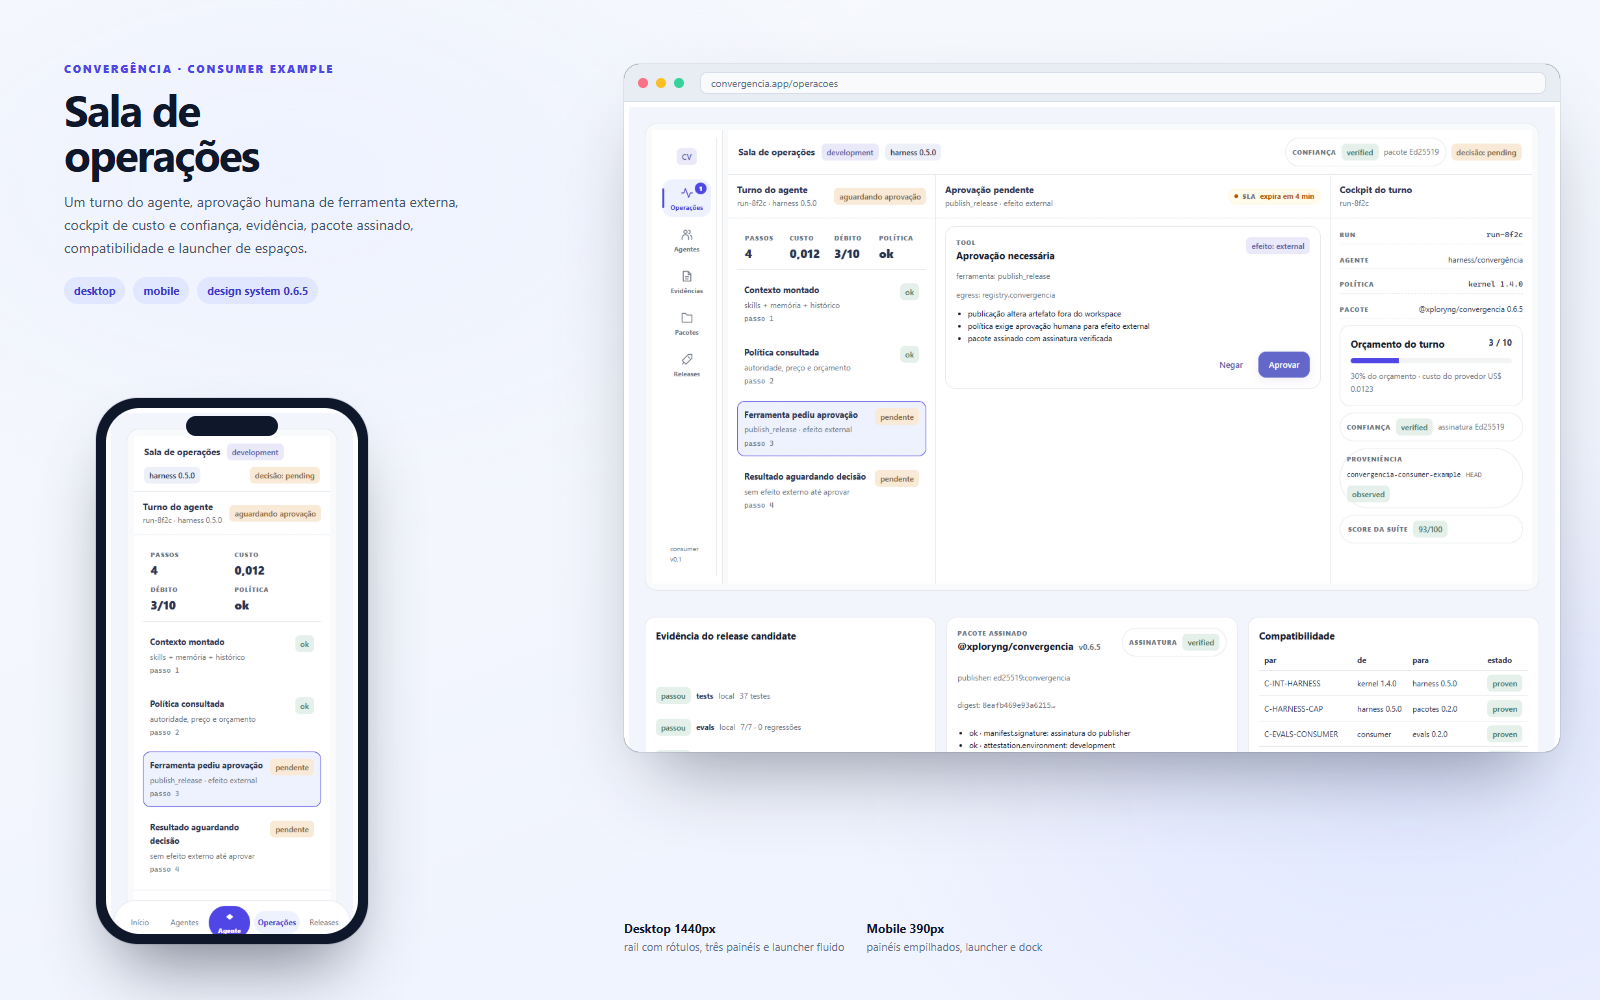
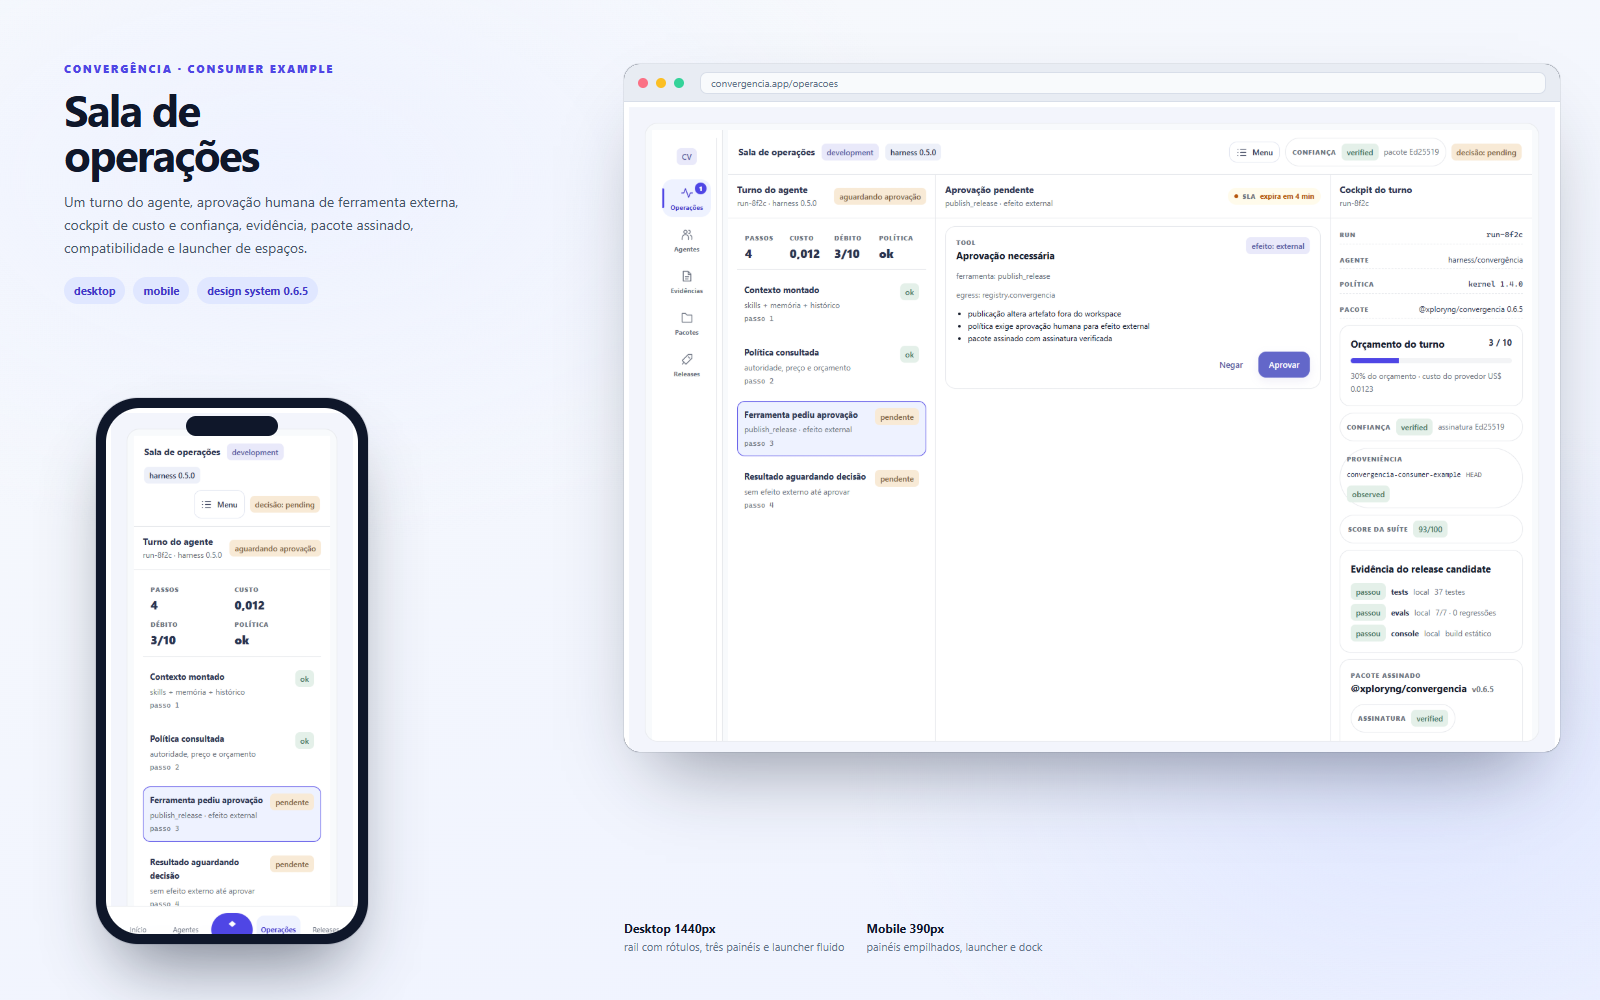
feat(sample): add FavoritosAI library sample and portfolio

diff --git a/examples/favoritos/src/App.tsx b/examples/favoritos/src/App.tsx
@@ -1,0 +1,160 @@
+import { useState } from 'react';
+import {
+  Avatar,
+  Badge,
+  Button,
+  Card,
+  Divider,
+  Icon,
+  MetaRow,
+  ScoreBadge,
+  TrustBadge,
+} from '../../../src/index';
+
+type Item = {
+  id: string;
+  title: string;
+  description: string;
+  tag: string;
+  kind: string;
+  score: number;
+  source: string;
+  savedAt: string;
+};
+
+const items: Item[] = [
+  { id: 'f1', title: 'Designing Data-Intensive Applications', description: 'Notas de leitura sobre consistência, replicação e sistemas distribuídos.', tag: 'livro', kind: 'leitura', score: 96, source: 'favoritos.ai/livros', savedAt: 'há 2 dias' },
+  { id: 'f2', title: 'Convergência Design System', description: 'Tokens, componentes e blocos usados nos produtos do ecossistema.', tag: 'sistema', kind: 'referência', score: 93, source: 'convergencia.design', savedAt: 'há 5 dias' },
+  { id: 'f3', title: 'Padrões de agentes autônomos', description: 'Comparativo de loops, ferramentas, memória e avaliação.', tag: 'pesquisa', kind: 'artigo', score: 88, source: 'arxiv.org', savedAt: 'há 1 semana' },
+  { id: 'f4', title: 'Receitas de cozinha rápida', description: 'Coleção pessoal de pratos de 20 minutos para a semana.', tag: 'pessoal', kind: 'coleção', score: 74, source: 'caderno', savedAt: 'há 2 semanas' },
+  { id: 'f5', title: 'SuperJarvis — arquitetura', description: 'Anotações sobre superfícies, agente central e continuidade.', tag: 'produto', kind: 'referência', score: 91, source: 'superjarvis.app', savedAt: 'há 3 semanas' },
+  { id: 'f6', title: 'Rotina de estudo de idiomas', description: 'Plano de 30 minutos por dia com repetição espaçada.', tag: 'pessoal', kind: 'plano', score: 81, source: 'caderno', savedAt: 'há 1 mês' },
+];
+
+const filters = ['todos', 'favoritos', 'lidos'];
+
+export function App() {
+  const [query, setQuery] = useState('');
+  const [filter, setFilter] = useState('todos');
+  const [selectedId, setSelectedId] = useState('f1');
+
+  const filtered = items.filter((item) => {
+    const term = query.trim().toLowerCase();
+    const matches = `${item.title} ${item.description} ${item.tag}`.toLowerCase().includes(term);
+    return matches && (filter === 'todos' || filter === 'favoritos' || filter === 'lidos');
+  });
+  const selected = items.find((item) => item.id === selectedId) ?? items[0];
+
+  return (
+    <div className="fav-shell">
+      <header className="fav-header">
+        <div className="fav-brand">
+          <span className="fav-mark"><Icon name="book" size={20} /></span>
+          <div>
+            <strong>FavoritosAI</strong>
+            <small>biblioteca pessoal</small>
+          </div>
+        </div>
+        <label className="fav-search">
+          <Icon name="search" size={16} />
+          <input value={query} onChange={(event) => setQuery(event.target.value)} placeholder="Buscar na biblioteca…" />
+        </label>
+        <div className="fav-actions">
+          <Button variant="secondary" size="sm" icon="plus">Nova pasta</Button>
+          <Avatar name="Ana" size="sm" />
+        </div>
+      </header>
+
+      <div className="fav-body">
+        <aside className="fav-side">
+          <Card>
+            <span className="fav-kicker">visão</span>
+            <div className="fav-filters">
+              {filters.map((item) => (
+                <button
+                  key={item}
+                  type="button"
+                  className={filter === item ? 'is-active' : ''}
+                  onClick={() => setFilter(item)}
+                >
+                  {item}
+                  <span>{item === 'todos' ? items.length : item === 'favoritos' ? 3 : 2}</span>
+                </button>
+              ))}
+            </div>
+            <Divider />
+            <span className="fav-kicker">tags</span>
+            <div className="fav-tags">
+              {['livro', 'sistema', 'pesquisa', 'pessoal', 'produto'].map((tag) => (
+                <Badge key={tag} tone="neutral">{tag}</Badge>
+              ))}
+            </div>
+            <Divider />
+            <div className="fav-stat">
+              <span>itens salvos</span>
+              <strong>128</strong>
+            </div>
+            <div className="fav-stat">
+              <span>lidos este mês</span>
+              <strong>14</strong>
+            </div>
+          </Card>
+        </aside>
+
+        <main className="fav-main">
+          <div className="fav-title">
+            <div>
+              <span className="fav-kicker">arquivo pessoal</span>
+              <h1>Biblioteca</h1>
+              <p>O que você salvou, leu e quer lembrar depois.</p>
+            </div>
+            <Badge tone="accent">128 itens</Badge>
+          </div>
+
+          <div className="fav-grid">
+            {filtered.map((item) => (
+              <Card key={item.id}>
+                <button type="button" className="fav-item" onClick={() => setSelectedId(item.id)}>
+                  <span className={`fav-cover fav-cover--${item.tag}`} aria-hidden="true" />
+                  <span className="fav-item-copy">
+                    <span className="fav-item-top">
+                      <Badge tone="neutral">{item.tag}</Badge>
+                      <span>{item.savedAt}</span>
+                    </span>
+                    <strong>{item.title}</strong>
+                    <small>{item.description}</small>
+                    <span className="fav-item-foot">
+                      <span>{item.kind}</span>
+                      <span>{item.source}</span>
+                    </span>
+                  </span>
+                </button>
+              </Card>
+            ))}
+          </div>
+        </main>
+
+        <aside className="fav-detail">
+          <Card>
+            <span className="fav-kicker">detalhe</span>
+            <h2>{selected.title}</h2>
+            <p>{selected.description}</p>
+            <Divider />
+            <MetaRow label="Tipo" value={selected.kind} />
+            <MetaRow label="Fonte" value={selected.source} />
+            <MetaRow label="Salvo" value={selected.savedAt} />
+            <Divider />
+            <div className="fav-detail-actions">
+              <ScoreBadge score={selected.score} label="relevância" />
+              <TrustBadge status="verified" detail="fonte verificada" />
+            </div>
+            <div className="fav-detail-buttons">
+              <Button size="sm">Abrir item</Button>
+              <Button size="sm" variant="ghost" icon="book">Marcar lido</Button>
+            </div>
+          </Card>
+        </aside>
+      </div>
+    </div>
+  );
+}

diff --git a/examples/favoritos/src/favoritos.css b/examples/favoritos/src/favoritos.css
@@ -1,0 +1,49 @@
+* { box-sizing: border-box; }
+body { margin: 0; background: var(--cv-color-background, #f8fafc); color: var(--cv-color-text, #0f172a); font-family: "Segoe UI", ui-sans-serif, system-ui, sans-serif; }
+.fav-shell { min-height: 100vh; display: grid; grid-template-rows: auto 1fr; }
+.fav-header { display: flex; align-items: center; gap: 18px; padding: 14px 22px; background: var(--cv-color-surface, #fff); border-bottom: 1px solid var(--cv-color-border, #e5e7eb); }
+.fav-brand { display: flex; align-items: center; gap: 10px; min-width: 190px; }
+.fav-brand strong { display: block; font-size: 15px; letter-spacing: -0.02em; }
+.fav-brand small { display: block; font-size: 10px; color: var(--cv-color-text-muted, #64748b); }
+.fav-mark { width: 36px; height: 36px; border-radius: 12px; display: grid; place-items: center; background: var(--cv-color-accent-soft, #eef2ff); color: var(--cv-color-accent-text, #4338ca); }
+.fav-search { display: flex; align-items: center; gap: 8px; flex: 1; max-width: 520px; min-height: 40px; padding: 0 12px; border: 1px solid var(--cv-color-border, #e5e7eb); background: var(--cv-color-surface-2, #f3f4f6); border-radius: 12px; color: var(--cv-color-text-muted, #64748b); }
+.fav-search input { flex: 1; min-width: 0; border: 0; outline: 0; background: transparent; font: inherit; color: var(--cv-color-text, #0f172a); }
+.fav-actions { margin-left: auto; display: flex; align-items: center; gap: 10px; }
+.fav-body { display: grid; grid-template-columns: 220px minmax(0, 1fr) 300px; gap: 18px; padding: 18px 22px 22px; min-height: 0; }
+.fav-side, .fav-detail { min-width: 0; }
+.fav-main { min-width: 0; display: grid; grid-template-rows: auto 1fr; gap: 14px; }
+.fav-title { display: flex; align-items: flex-start; justify-content: space-between; gap: 12px; }
+.fav-title h1 { margin: 2px 0 6px; font-size: 26px; letter-spacing: -0.03em; }
+.fav-title p { margin: 0; color: var(--cv-color-text-muted, #64748b); font-size: 13px; }
+.fav-kicker { display: block; font-size: 10px; font-weight: 800; letter-spacing: 0.1em; text-transform: uppercase; color: var(--cv-color-text-muted, #64748b); margin-bottom: 10px; }
+.fav-filters { display: grid; gap: 4px; margin-bottom: 14px; }
+.fav-filters button { display: flex; align-items: center; justify-content: space-between; gap: 8px; min-height: 38px; padding: 0 10px; border: 0; border-radius: 10px; background: transparent; color: var(--cv-color-text, #0f172a); font: inherit; font-size: 12px; text-transform: capitalize; cursor: pointer; }
+.fav-filters button span { color: var(--cv-color-text-muted, #64748b); font-size: 11px; }
+.fav-filters button.is-active { background: var(--cv-color-accent-soft, #eef2ff); color: var(--cv-color-accent-text, #4338ca); font-weight: 700; }
+.fav-tags { display: flex; flex-wrap: wrap; gap: 6px; margin-bottom: 12px; }
+.fav-stat { display: flex; align-items: center; justify-content: space-between; padding: 5px 0; font-size: 12px; color: var(--cv-color-text-muted, #64748b); }
+.fav-stat strong { color: var(--cv-color-text, #0f172a); font-size: 16px; font-variant-numeric: tabular-nums; }
+.fav-grid { display: grid; grid-template-columns: repeat(2, minmax(0, 1fr)); gap: 12px; align-content: start; }
+.fav-item { display: grid; grid-template-columns: 64px minmax(0, 1fr); gap: 12px; width: 100%; border: 0; background: transparent; padding: 0; text-align: left; cursor: pointer; font: inherit; color: inherit; }
+.fav-cover { width: 64px; height: 100%; min-height: 92px; border-radius: 12px; background: linear-gradient(150deg, #c7d2fe, #eef2ff); }
+.fav-cover--sistema { background: linear-gradient(150deg, #bbf7d0, #ecfdf5); }
+.fav-cover--pesquisa { background: linear-gradient(150deg, #fde68a, #fffbeb); }
+.fav-cover--pessoal { background: linear-gradient(150deg, #fecdd3, #fff1f2); }
+.fav-cover--produto { background: linear-gradient(150deg, #a5f3fc, #ecfeff); }
+.fav-item-copy { display: grid; gap: 4px; min-width: 0; }
+.fav-item-top { display: flex; align-items: center; justify-content: space-between; gap: 8px; font-size: 10px; color: var(--cv-color-text-muted, #64748b); }
+.fav-item-copy strong { font-size: 13px; line-height: 1.3; }
+.fav-item-copy small { font-size: 11px; color: var(--cv-color-text-muted, #64748b); line-height: 1.45; display: -webkit-box; -webkit-line-clamp: 2; -webkit-box-orient: vertical; overflow: hidden; }
+.fav-item-foot { display: flex; justify-content: space-between; gap: 8px; font-size: 10px; color: var(--cv-color-text-muted, #64748b); }
+.fav-detail h2 { margin: 0 0 8px; font-size: 18px; letter-spacing: -0.02em; }
+.fav-detail p { margin: 0 0 12px; font-size: 12px; line-height: 1.55; color: var(--cv-color-text-muted, #64748b); }
+.fav-detail-actions { display: flex; flex-wrap: wrap; gap: 8px; margin: 12px 0; }
+.fav-detail-buttons { display: flex; flex-wrap: wrap; gap: 8px; }
+@media (max-width: 1000px) {
+  .fav-body { grid-template-columns: 1fr; }
+  .fav-side { order: 2; }
+  .fav-detail { order: 3; }
+  .fav-header { flex-wrap: wrap; }
+  .fav-search { order: 3; flex-basis: 100%; max-width: none; }
+  .fav-grid { grid-template-columns: 1fr; }
+}

diff --git a/examples/favoritos/src/main.tsx b/examples/favoritos/src/main.tsx
@@ -1,0 +1,12 @@
+import { createRoot } from 'react-dom/client';
+import { DesignSystemProvider } from '../../../src/index';
+import '../../../src/tokens.css';
+import '../../../src/styles.css';
+import './favoritos.css';
+import { App } from './App';
+
+createRoot(document.getElementById('root')!).render(
+  <DesignSystemProvider theme="light">
+    <App />
+  </DesignSystemProvider>
+);

diff --git a/examples/favoritos/index.html b/examples/favoritos/index.html
@@ -1,0 +1,12 @@
+<!doctype html>
+<html lang="pt-BR">
+  <head>
+    <meta charset="utf-8" />
+    <meta name="viewport" content="width=device-width, initial-scale=1" />
+    <title>FavoritosAI — biblioteca pessoal</title>
+  </head>
+  <body>
+    <div id="root"></div>
+    <script type="module" src="/src/main.tsx"></script>
+  </body>
+</html>

diff --git a/README.md b/README.md
@@ -6,11 +6,11 @@ A linguagem visual comum: tokens, componentes e blocos para as superfícies da C
 
 ## Interface
 
-![Sala de operações em desktop e mobile](docs/images/portfolio.png)
+![FavoritosAI em desktop e mobile](docs/images/portfolio-favoritos.png)
 
-O design system em uso real: rail com rótulos, painéis, launcher fluido e a mesma navegação no celular.
+Uma amostra diferente do consumer: **FavoritosAI**, uma biblioteca pessoal de links, livros e referências, construída com os componentes do design system — filtros, tags, grade de itens, detalhe e relevância.
 
-<sub>Composição real do build 0.6.5 — desktop 1440px e mobile 390px.</sub>
+<sub>Amostra real do design system 0.6.5 em desktop (1440px) e mobile (390px). O código está em `examples/favoritos`.</sub>
 
 ### Storybook
 
